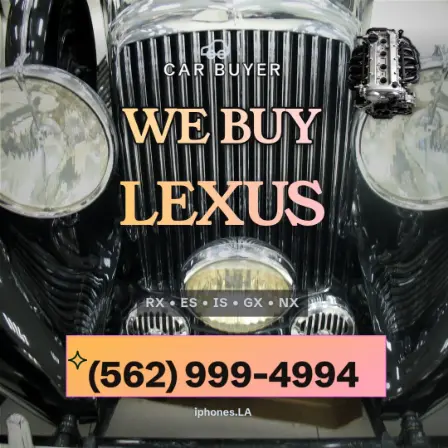
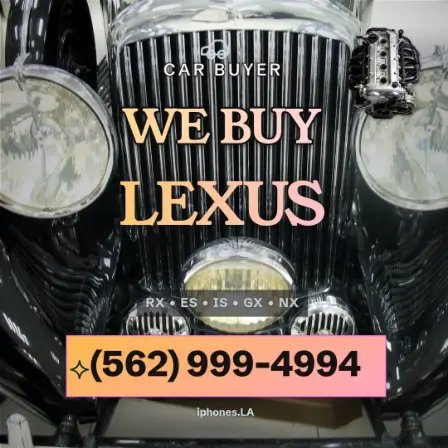
Gate: the number is centred on a plate it has to itself; six cards centred
pgCheck fails numCentre when the phone number's letters sit more than 12% off
the middle of a plate no other line shares (the plate as seen, clipped to the
card). The old scriptRetro bars (22-37% off) passed the gate because every
letter was on the bar. Measured on 415 live cards, six still failed;
scripts/centre_number.mjs centred each (to 1-3%) where the gate accepted it.
DESIGN-LAW 94.

Claude-Session: https://claude.ai/code/session_01QySTT1v1ciw3szuUJ6onYT

Changed region(s): [[0.1562, 0.7812, 0.8125, 0.875], [0.4375, 0.9062, 0.5625, 0.9375]]

diff --git a/app.js b/app.js
@@ -15687,7 +15687,7 @@ function ezPatternRow(){
      touch    two lines whose boxes overlap by more than a kiss (rule 58)
    FAIL holds a card back (the landing's `defect`, the studio's gate); WARN
    is shown and ranks a card down. */
-const PG_T = { number: 72, legib: 3, numInk: 3, contrast: 4.5, onProduct: 0.12, offPlate: 0.08, thumb: 8, margin: 0.06, touch: 0.18, cut: 0.08, tile: 160 };
+const PG_T = { number: 72, legib: 3, numInk: 3, contrast: 4.5, onProduct: 0.12, offPlate: 0.08, numCentre: 0.12, thumb: 8, margin: 0.06, touch: 0.18, cut: 0.08, tile: 160 };
 const PG_READ = { headline:1, phone:1, cta:1, info:1, badges:1, sub:1, website:1, offer:1 }, PG_CRIT = { headline:1, phone:1, cta:1 };
 const pgLin = c => { c /= 255; return c <= 0.03928 ? c / 12.92 : Math.pow((c + 0.055) / 1.055, 2.4); };
 const pgLumAt = (d, k) => 0.2126 * pgLin(d[k]) + 0.7152 * pgLin(d[k + 1]) + 0.0722 * pgLin(d[k + 2]);
@@ -15787,7 +15787,7 @@ function pgCheck(sc, opts){
   });
   // the number: big, its letters readable, on its plate, off the product
   const phone = read.find(x => x.role === 'phone');
-  let onProduct = 0, offPlate = 0;
+  let onProduct = 0, offPlate = 0, numOff = 0;
   if (phone){
     if (phone.px < PG_T.number - 0.5) F('number', phone, phone.px, PG_T.number);   // half a pixel of rounding, the same tolerance the floor uses
     if (phone.letters != null && phone.letters < PG_T.numInk) F('numInk', phone, phone.letters, PG_T.numInk);
@@ -15803,12 +15803,27 @@ function pgCheck(sc, opts){
       if (w > 0 && h > 0){
         const on = ctx.getImageData(x0, y0, w, h).data; phone.o.visible = false; sc.renderAll();
         const off = ctx.getImageData(x0, y0, w, h).data; phone.o.visible = true; sc.renderAll();
-        let ink = 0, out = 0;
+        let ink = 0, out = 0, iL = Infinity, iR = -Infinity, iT = Infinity, iB = -Infinity;
         for (let y = 0; y < h; y++) for (let x = 0; x < w; x++){ const q = (y * w + x) * 4;
           if (Math.abs(on[q] - off[q]) + Math.abs(on[q + 1] - off[q + 1]) + Math.abs(on[q + 2] - off[q + 2]) < 90) continue;
-          ink++; const X = x + x0, Y = y + y0; if (X < plate.x || X > plate.x + plate.w || Y < plate.y || Y > plate.y + plate.h) out++; }
+          ink++; const X = x + x0, Y = y + y0; if (X < plate.x || X > plate.x + plate.w || Y < plate.y || Y > plate.y + plate.h) out++;
+          if (X < iL) iL = X; if (X > iR) iR = X; if (Y < iT) iT = Y; if (Y > iB) iB = Y; }
         offPlate = ink ? out / ink : 0;
         if (offPlate > PG_T.offPlate) F('offPlate', phone, offPlate, PG_T.offPlate);
+        /* the number is centred on a plate it has to itself (owner, 2026-09-30:
+           "The CTA is not centered so it doesn't look great"): its letters'
+           middle within 12% of the plate's middle as it is seen (clipped to
+           the card), across and down. A band whose number hugged its top edge
+           passed offPlate, since every letter was on it (scriptRetro, 22% to
+           37% high); a plate shared with the CTA or the website is a stack,
+           and is not judged here. */
+        const sx0 = Math.max(0, plate.x), sx1 = Math.min(W, plate.x + plate.w), sy0 = Math.max(0, plate.y), sy1 = Math.min(H, plate.y + plate.h);
+        const shared = read.some(x => x !== phone && x.b && (() => { const cx = x.b.x + x.b.w / 2, cy = x.b.y + x.b.h / 2; return cx > sx0 && cx < sx1 && cy > sy0 && cy < sy1; })());
+        if (ink && !shared && sy1 - sy0 >= 40 && sx1 - sx0 >= 80){
+          const ox = ((iL + iR) / 2 - (sx0 + sx1) / 2) / (sx1 - sx0), oy = ((iT + iB) / 2 - (sy0 + sy1) / 2) / (sy1 - sy0);
+          numOff = Math.max(Math.abs(ox), Math.abs(oy));
+          if (numOff > PG_T.numCentre) F('numCentre', phone, +numOff.toFixed(3), PG_T.numCentre);
+        }
       }
     }
   } else if (!opts.noPhone) Wn('noNumber', null, null, null);
@@ -15843,7 +15858,7 @@ function pgCheck(sc, opts){
   return { ok: !fails.length, fails, warns, legib: +legib.toFixed(2), legibMin: +legibMin.toFixed(2), number: phone ? +phone.px.toFixed(1) : null,
            numInk: phone && phone.letters != null ? +phone.letters.toFixed(2) : null,
            letters: crit.length ? +Math.min(...crit).toFixed(2) : null, minorInk: minorL.length ? +Math.min(...minorL).toFixed(2) : null,
-           onProduct: +onProduct.toFixed(3), offPlate: +offPlate.toFixed(3), headPx: +headPx.toFixed(1), headTile: +headTile.toFixed(1),
+           onProduct: +onProduct.toFixed(3), offPlate: +offPlate.toFixed(3), numOff: +numOff.toFixed(3), headPx: +headPx.toFixed(1), headTile: +headTile.toFixed(1),
            ghost: read.filter(x => PG_CRIT[x.role] && x.cov < 0.012).length,
            lines: read.map(x => ({ name: x.name, role: x.role, px: +x.px.toFixed(1), core: x.core == null ? null : +x.core.toFixed(2), letters: x.letters == null ? null : +x.letters.toFixed(2), cov: +(x.cov * 100).toFixed(1),
                                    ink: x.ink == null ? null : +x.ink.toFixed(3), ground: x.ground == null ? null : +x.ground.toFixed(3) })) };
@@ -15857,6 +15872,7 @@ function pgExplain(f){
     case 'number': return 'the phone number is ' + Math.round(f.value) + 'px; it needs 72px to read in a feed';
     case 'numInk': return 'part of the phone number reads ' + f.value + ':1; every digit needs 3:1';
     case 'offPlate': return 'the phone number runs off its plate';
+    case 'numCentre': return 'the phone number is not centred on its plate';
     case 'onProduct': return 'the phone number sits on the product';
     case 'thumb': return 'the headline is too small to read as a thumbnail';
     case 'margin': return L + ' runs into the edge';

diff --git a/DESIGN-LAW.md b/DESIGN-LAW.md
@@ -2961,3 +2961,21 @@ Kept from the merge of the lines (2026-09-30):
   look off, recolours, and puts it back on in the theme's palette, so a theme
   picked in the editor never overpaints a look (added when the lines were
   merged, 2026-09-30).
+
+## 94. The number sits in the middle of a plate it has to itself
+
+Added 2026-10-01. The owner, on a scriptRetro card whose number hugged the top
+of a full-width bar: "The CTA is not centered so it doesn't look great", then
+"Make sure it comes out, clean every single time and properly". That card
+passed the gate: offPlate counts letters off the plate, and every letter was
+on it. So the gate (pgCheck) now also fails `numCentre`: on a plate no other
+line shares, the number's letters must sit within 12% of the plate's middle
+as it is seen (clipped to the card), across and down.
+
+Measured on the 415 live cards: the old scriptRetro bars were 22% to 37% off;
+six cards still failed (five Neon Night plates 14% to 20% low, one Trust Seal
+band 27% high) and `scripts/centre_number.mjs` moved each number until its
+letters sat within 3%, kept only where the gate accepted the card. A second
+run changes nothing. The scriptRetro bars themselves were rebuilt as pills
+(`scripts/hug_number_pill.mjs`).
+
